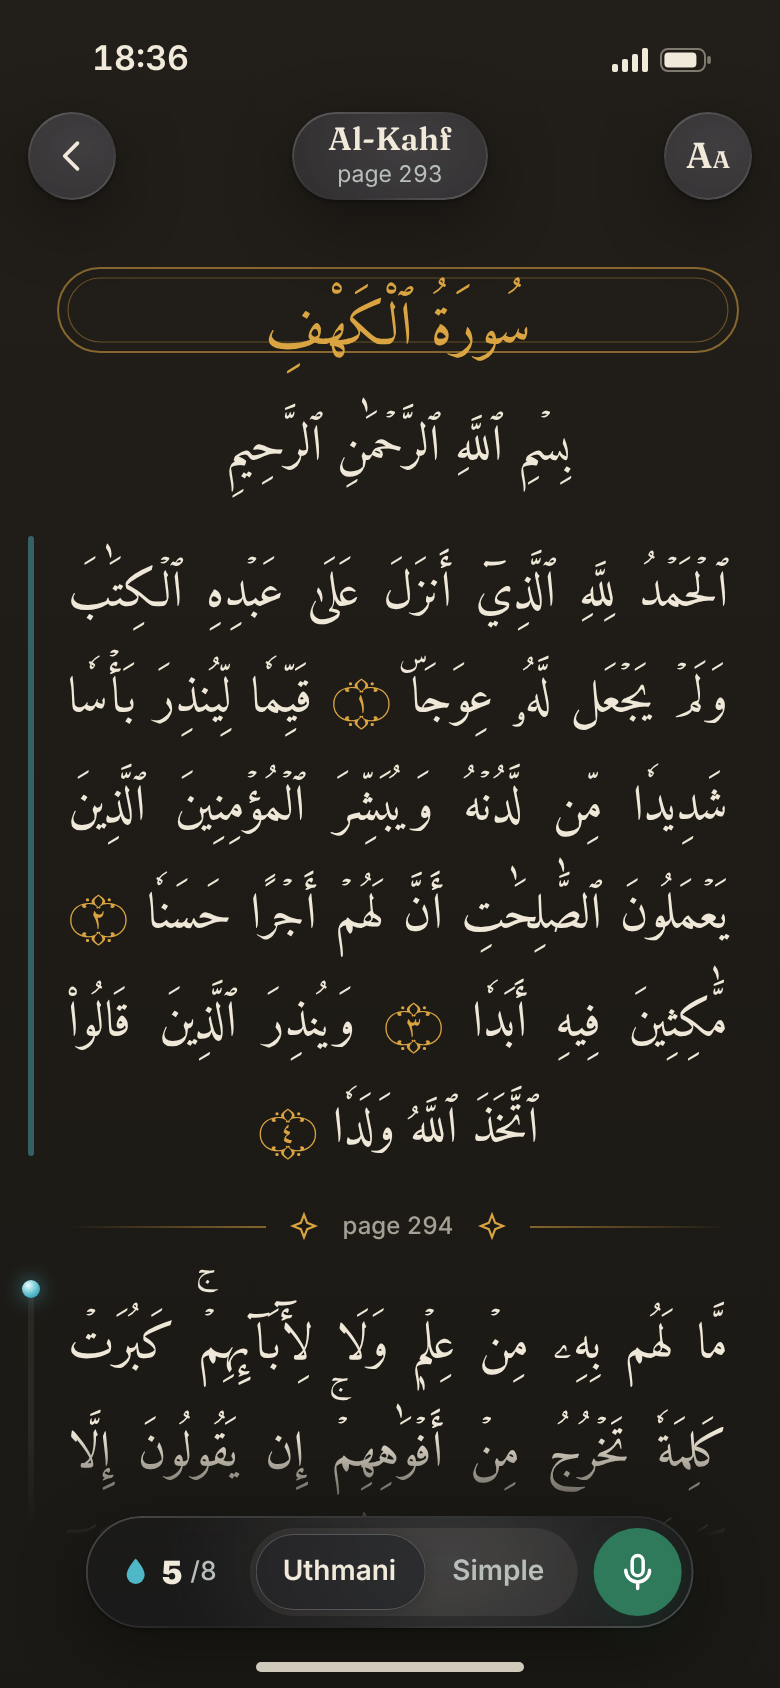
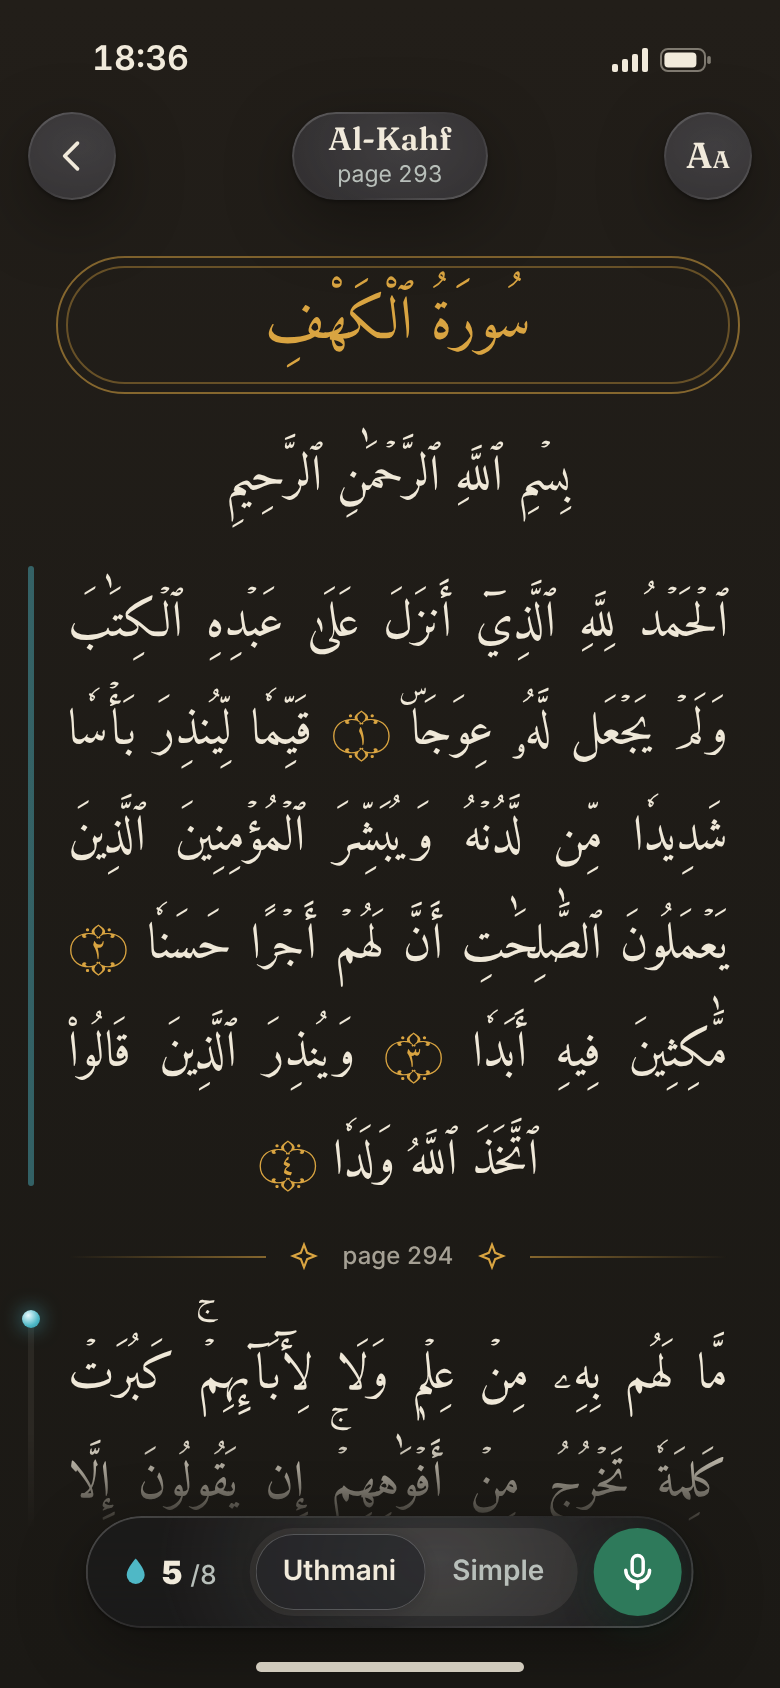
Mockup shots of the reader, with the surah title in the middle of its frame
The mockup's source (outside the repository) centres the title by its
letters and sizes the frame for its marks; shots 13 to 16 and 20 to 22
are taken again with the mockup's own tool. Measured on shot 14: the ink
was 9.8 points low and 4 points outside the frame; it now has 18.0 points
above and 19.5 below, 12 at least to the inner rule.

Claude-Session: https://claude.ai/code/session_01QtZpLcxoksBKFHMnmwby7k

diff --git a/docs/design/maquette-wow/README.md b/docs/design/maquette-wow/README.md
@@ -10,7 +10,9 @@
 >   les oiseaux (hizb 27, 37, 57) et les papillons (hizb 47) se gagnent. Au hizb 25 de la maquette,
 >   ni oiseaux ni papillons. Le choix « Vie du jardin » du panneau montre hizb 27+ et 47+ ;
 > - comparaison de la pastille en bas / en haut : `review/compare-pastille-jour.png` et
->   `review/compare-pastille-nuit.png` (la goutte qui tombe, puis « a grandi »).
+>   `review/compare-pastille-nuit.png` (la goutte qui tombe, puis « a grandi ») ;
+> - le titre de sourate est au milieu de son cadre (il était 9,8 points trop bas et sortait du
+>   cadre) : images 13 à 16 et 20 à 22 refaites ; la mesure est dans `../POLISH-CHECKLIST.md`.
 
 **Pour voir :** double-clique sur `index.html` (Chrome, Safari ou Edge sur un ordinateur). Tout est
 dans le dossier, sans serveur ni Internet. À gauche, le panneau de commandes ; à droite, l'iPhone
